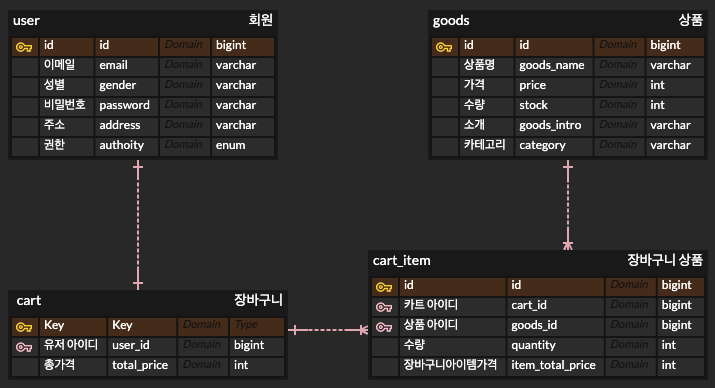
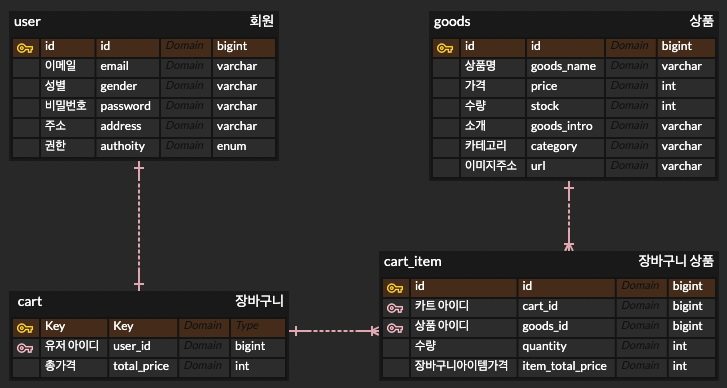
Feat : 상품 이미지 업로드

diff --git a/src/main/java/org/sparta/hanghae99lv5/controller/GoodsController.java b/src/main/java/org/sparta/hanghae99lv5/controller/GoodsController.java
@@ -11,17 +11,24 @@ import org.springframework.data.domain.Pageable;
 import org.springframework.http.HttpStatus;
 import org.springframework.http.ResponseEntity;
 import org.springframework.web.bind.annotation.*;
+import org.springframework.web.multipart.MultipartFile;
+
+import java.io.IOException;
 
 @RestController
 @RequestMapping("/api")
 public class GoodsController {
-    @Autowired
-    private GoodsService goodsService;
+
+    private final GoodsService goodsService;
+
+    public GoodsController(GoodsService goodsService) {
+        this.goodsService = goodsService;
+    }
 
     @PostMapping("/admins/goods")
-    public ResponseEntity<String> createUser(@RequestBody GoodsRequestDto requestDto) {
+    public ResponseEntity<String> createGoods(GoodsRequestDto requestDto, @RequestPart MultipartFile imageFile) {
         return handleRequest(() -> {
-            goodsService.createGoods(requestDto);
+            goodsService.createGoods(requestDto,imageFile);
             return new ResponseEntity<>(SuccessMessage.CREATE_GOODS_SUCCESS_MESSAGE.getSuccessMessage(), HttpStatus.CREATED);
         });
     }
@@ -41,11 +48,13 @@ public class GoodsController {
             return handler.handle();
         } catch (IllegalArgumentException e) {
             return new ResponseEntity<>(e.getMessage(), HttpStatus.BAD_REQUEST);
+        } catch (IOException e) {
+            throw new RuntimeException(e);
         }
     }
 
     @FunctionalInterface
     private interface RequestHandler {
-        ResponseEntity<String> handle();
+        ResponseEntity<String> handle() throws IOException;
     }
 }

diff --git a/src/main/java/org/sparta/hanghae99lv5/config/S3Config.java b/src/main/java/org/sparta/hanghae99lv5/config/S3Config.java
@@ -1,0 +1,34 @@
+package org.sparta.hanghae99lv5.config;
+
+import com.amazonaws.auth.AWSStaticCredentialsProvider;
+import com.amazonaws.auth.BasicAWSCredentials;
+import com.amazonaws.services.s3.AmazonS3Client;
+import com.amazonaws.services.s3.AmazonS3ClientBuilder;
+import lombok.RequiredArgsConstructor;
+import org.springframework.beans.factory.annotation.Value;
+import org.springframework.context.annotation.Bean;
+import org.springframework.context.annotation.Configuration;
+
+@Configuration
+public class S3Config {
+
+    @Value("${cloud.aws.credentials.access-key}")
+    private String accessKey;
+
+    @Value("${cloud.aws.credentials.secret-key}")
+    private String secretKey;
+
+    @Value("${cloud.aws.region.static}")
+    private String region;
+
+    // 외부 라이브러리(AmazonS3)이기 때문에 빈으로 등록하여 이미지파일을 업로드하자.
+    @Bean
+    public AmazonS3Client s3Builder() {
+        BasicAWSCredentials basicAWSCredentials = new BasicAWSCredentials(accessKey, secretKey);
+
+        return (AmazonS3Client) AmazonS3ClientBuilder
+                .standard()
+                .withCredentials(new AWSStaticCredentialsProvider(basicAWSCredentials))
+                .withRegion(region).build();
+    }
+}

diff --git a/src/main/java/org/sparta/hanghae99lv5/service/ImageS3Service.java b/src/main/java/org/sparta/hanghae99lv5/service/ImageS3Service.java
@@ -1,0 +1,33 @@
+package org.sparta.hanghae99lv5.service;
+
+import com.amazonaws.services.s3.AmazonS3;
+import com.amazonaws.services.s3.model.ObjectMetadata;
+import lombok.RequiredArgsConstructor;
+import org.springframework.beans.factory.annotation.Value;
+import org.springframework.stereotype.Service;
+import org.springframework.web.multipart.MultipartFile;
+
+import java.io.IOException;
+
+@Service
+@RequiredArgsConstructor
+public class ImageS3Service {
+
+    private final AmazonS3 amazonS3;
+
+    @Value("${cloud.aws.s3.bucket}")
+    private String bucketName;
+
+    public String saveFile(MultipartFile multipartFile) throws IOException {
+
+        String originalFileName = multipartFile.getOriginalFilename();
+
+        ObjectMetadata metadata = new ObjectMetadata();
+        metadata.setContentLength(multipartFile.getSize());
+        metadata.setContentType(multipartFile.getContentType());
+
+        amazonS3.putObject(bucketName, originalFileName, multipartFile.getInputStream(), metadata);
+
+        return amazonS3.getUrl(bucketName, originalFileName).toString();
+    }
+}

diff --git a/src/main/java/org/sparta/hanghae99lv5/service/GoodsService.java b/src/main/java/org/sparta/hanghae99lv5/service/GoodsService.java
@@ -11,16 +11,20 @@ import org.springframework.data.domain.PageRequest;
 import org.springframework.data.domain.Sort;
 import org.springframework.stereotype.Service;
 import org.springframework.transaction.annotation.Transactional;
+import org.springframework.web.multipart.MultipartFile;
+
+import java.io.IOException;
 
 @Service
 @RequiredArgsConstructor
 public class GoodsService {
 
     private final GoodsRepository goodsRepository;
+    private final ImageS3Service imageS3Service;
 
     @Transactional
-    public void createGoods(GoodsRequestDto requestDto) {
-        Goods goods = new Goods(requestDto);
+    public void createGoods(GoodsRequestDto requestDto, MultipartFile imageFile) throws IOException {
+        Goods goods = new Goods(requestDto, imageS3Service.saveFile(imageFile));
         Goods saveGoods = goodsRepository.save(goods);
         new GoodsResponseDto(saveGoods);
     }

diff --git a/src/main/java/org/sparta/hanghae99lv5/entity/Goods.java b/src/main/java/org/sparta/hanghae99lv5/entity/Goods.java
@@ -28,11 +28,16 @@ public class Goods {
     @Column(nullable = false)
     private String category;
 
-    public Goods(GoodsRequestDto requestDto) {
+    @Column
+    private String url;
+
+
+    public Goods(GoodsRequestDto requestDto, String url) {
         this.name = requestDto.getName();
         this.price = requestDto.getPrice();
         this.stock = requestDto.getStock();
         this.intro = requestDto.getIntro();
         this.category = requestDto.getCategory();
+        this.url = url;
     }
 }

diff --git a/src/main/java/org/sparta/hanghae99lv5/dto/GoodsResponseDto.java b/src/main/java/org/sparta/hanghae99lv5/dto/GoodsResponseDto.java
@@ -12,6 +12,7 @@ public class GoodsResponseDto {
     private final String stock;
     private final String intro;
     private final String category;
+    private final String url;
 
     public GoodsResponseDto(Goods goods) {
         this.id = goods.getId();
@@ -20,5 +21,6 @@ public class GoodsResponseDto {
         this.stock = goods.getStock();
         this.intro = goods.getIntro();
         this.category = goods.getCategory();
+        this.url = goods.getUrl();
     }
 }

diff --git a/src/main/java/org/sparta/hanghae99lv5/dto/GoodsRequestDto.java b/src/main/java/org/sparta/hanghae99lv5/dto/GoodsRequestDto.java
@@ -1,8 +1,10 @@
 package org.sparta.hanghae99lv5.dto;
 
 import lombok.Getter;
+import lombok.Setter;
 
 @Getter
+@Setter
 public class GoodsRequestDto {
     private String name;
     private int price;
